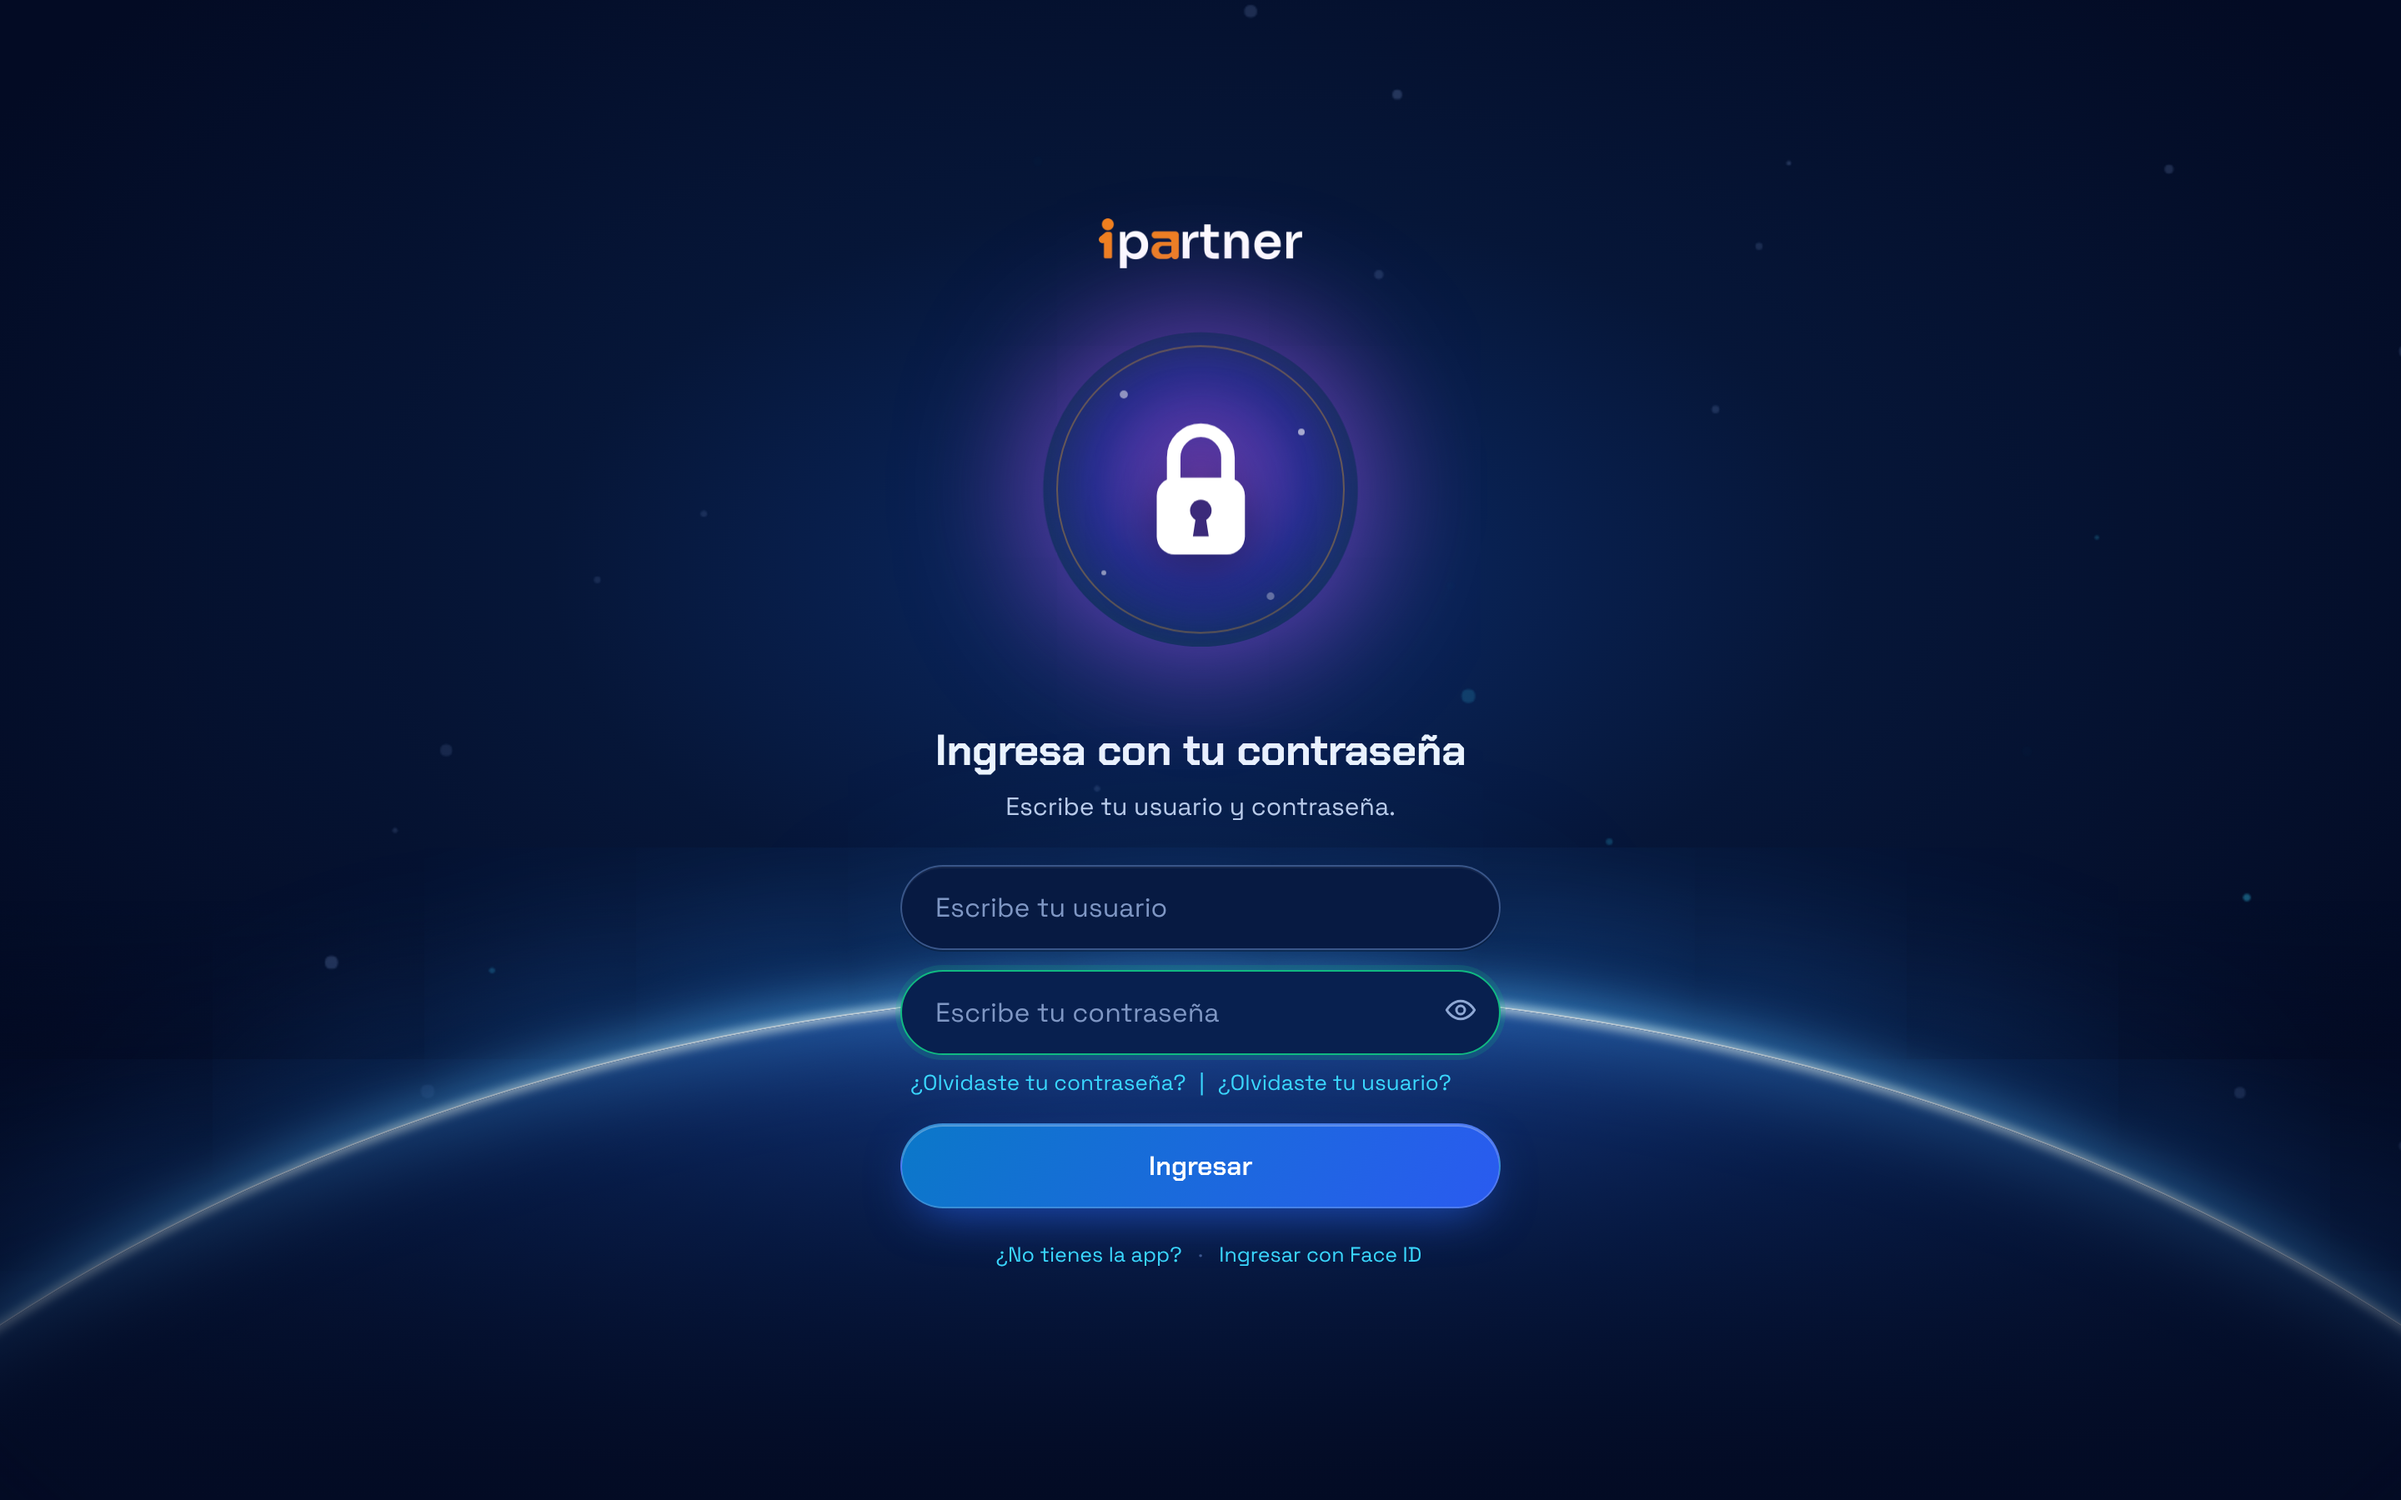
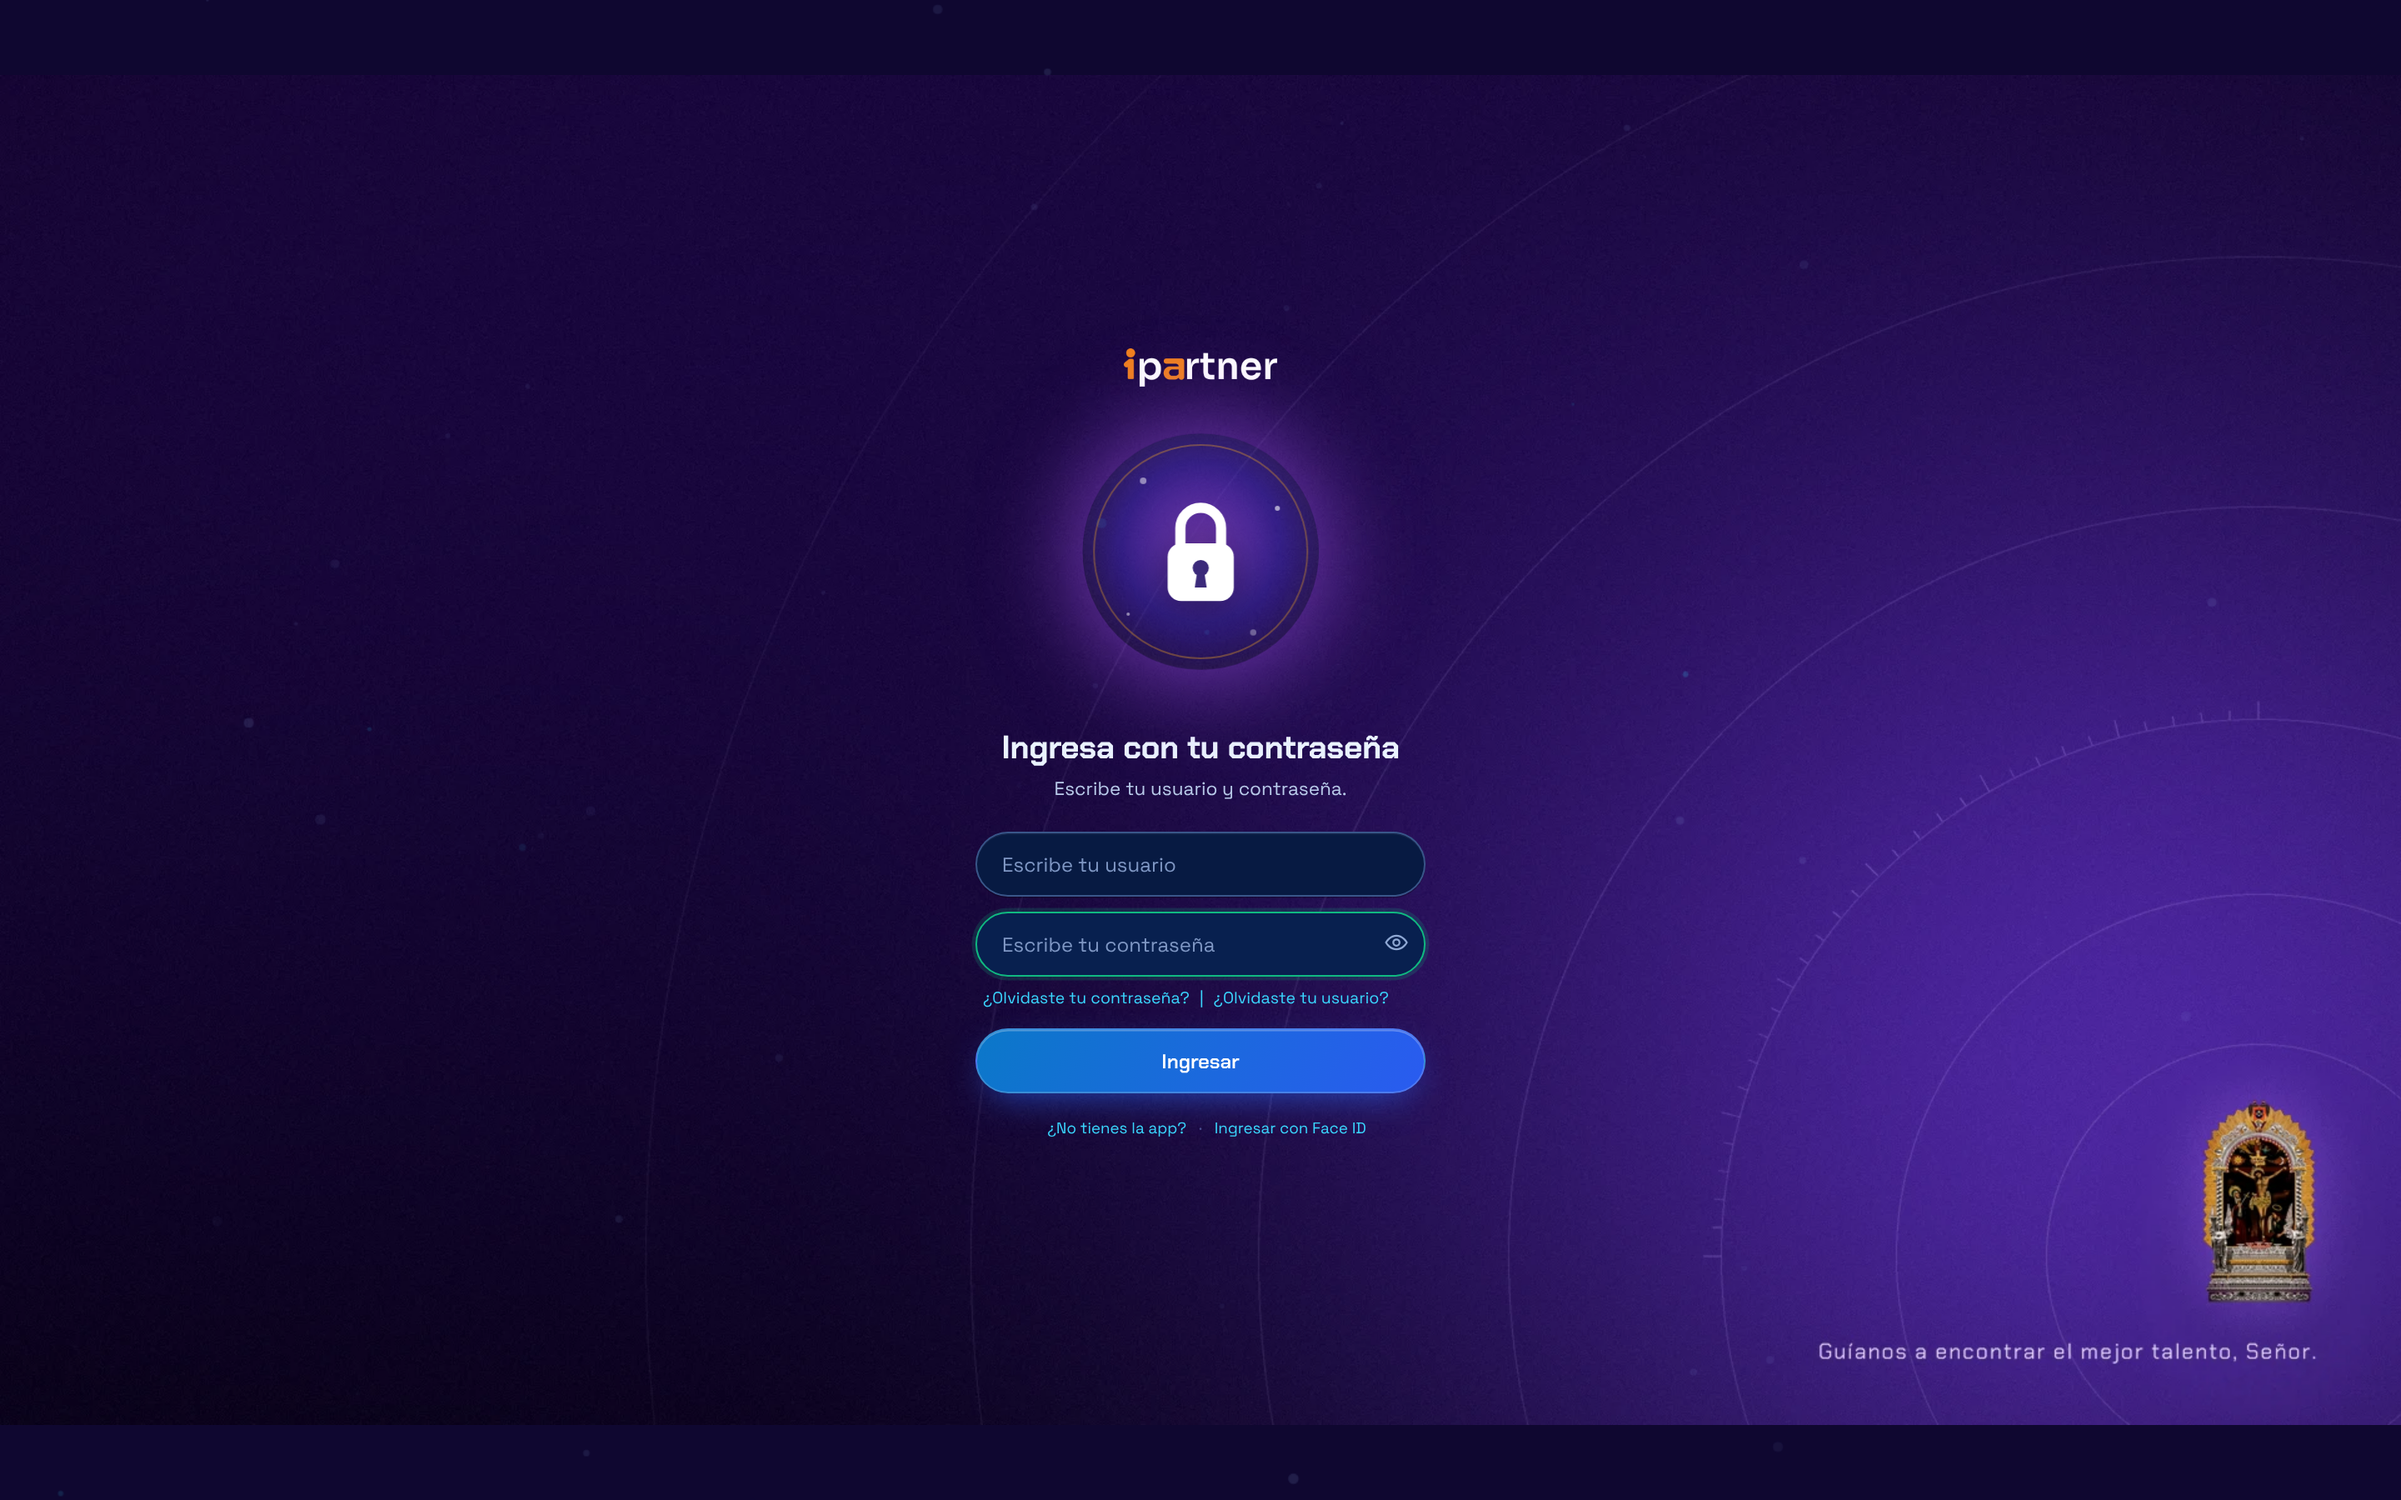
Login: lienzo universal 390x844 para celular
Claude-Session: https://claude.ai/code/session_01L3Vqfcuvm53Mhac8spSeBK

diff --git a/login/login-v2.html b/login/login-v2.html
@@ -418,9 +418,10 @@ body.intro-done .stage > *{animation:none!important}
 body{background:#14093a url(fondo.webp) right bottom/cover no-repeat fixed!important}
 body .horizon{display:none!important}
 #dust{opacity:.35}
-/* Lienzo universal 1920x1080: todo se escala proporcionalmente */
+/* Lienzo universal: 1920x1080 en computadora/tablet horizontal, 390x844 en celular (vertical): todo se escala proporcionalmente */
 html{background:#0f0730;overflow:hidden!important;height:100%}
 body{width:1920px!important;height:1080px!important;min-height:0!important;overflow:hidden!important;margin:0 auto!important;background-attachment:scroll!important;background-size:1920px 1080px!important}
+html.movil body{background-color:#170a40!important}
 </style>
 </head>
 <body>
@@ -1078,7 +1079,7 @@ function runPassAnim(done){
 }
 </script>
 <script>
-(function(){function fit(){var z=Math.min(innerWidth/1920,innerHeight/1080);document.body.style.zoom=z;document.body.style.setProperty("margin-top",Math.max(0,(innerHeight-1080*z)/2/z)+"px","important");}fit();addEventListener("resize",fit);})();
+(function(){function fit(){var m=innerWidth<innerHeight,W=m?390:1920,H=m?844:1080,z=Math.min(innerWidth/W,innerHeight/H),b=document.body.style;document.documentElement.classList.toggle("movil",m);b.setProperty("width",W+"px","important");b.setProperty("height",H+"px","important");b.setProperty("background-size",m?"150% auto":"1920px 1080px","important");b.zoom=z;b.setProperty("margin-top",Math.max(0,(innerHeight-H*z)/2/z)+"px","important");}fit();addEventListener("resize",fit);})();
 </script>
 </body>
 </html>
